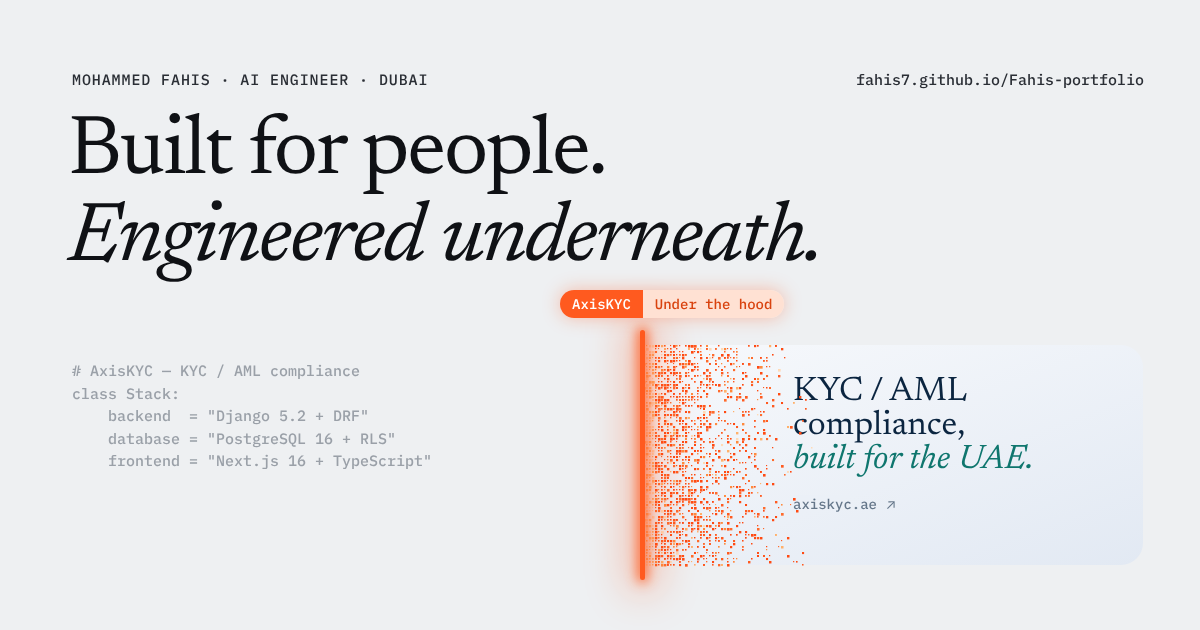
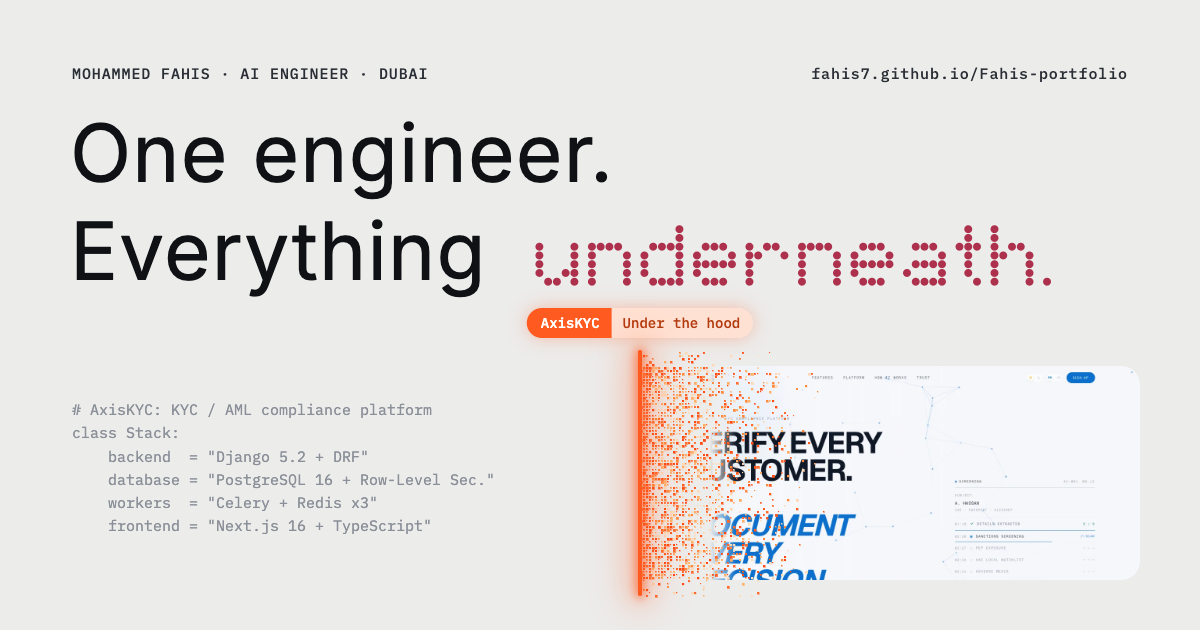
Hero headline: One engineer. Everything underneath.

diff --git a/index.html b/index.html
@@ -19,7 +19,7 @@
       })();
     </script>
 
-    <title>Mohammed Fahis | AI Engineer & Full Stack Developer in Dubai</title>
+    <title>Mohammed Fahis | One engineer. Everything underneath.</title>
     <meta name="description" content="Mohammed Fahis is a Dubai-based AI Engineer and Full Stack Developer. Builder of AxisKYC (KYC/AML compliance), PropAI OS and more: multi-tenant SaaS, RAG and vision-AI from blank screen to production." />
     <meta name="author" content="Mohammed Fahis" />
     <link rel="canonical" href="https://fahis7.github.io/Fahis-portfolio/" />
@@ -33,7 +33,7 @@
     <meta property="og:type" content="website" />
     <meta property="og:site_name" content="Mohammed Fahis" />
     <meta property="og:title" content="Mohammed Fahis | AI Engineer & Full Stack Developer" />
-    <meta property="og:description" content="Built for people. Engineered underneath. AxisKYC, PropAI OS, Seek & Sync and more: AI products shipped end-to-end." />
+    <meta property="og:description" content="AI and full-stack engineer in Dubai. One engineer, everything underneath: compliance, ops and AI platforms shipped end to end." />
     <meta property="og:url" content="https://fahis7.github.io/Fahis-portfolio/" />
     <meta property="og:image" content="https://fahis7.github.io/Fahis-portfolio/og-image.png" />
     <meta property="og:image:width" content="1200" />
@@ -41,7 +41,7 @@
     <meta property="og:image:alt" content="Mohammed Fahis | AI Engineer / Full Stack Developer, Dubai" />
     <meta name="twitter:card" content="summary_large_image" />
     <meta name="twitter:title" content="Mohammed Fahis | AI Engineer & Full Stack Developer" />
-    <meta name="twitter:description" content="Built for people. Engineered underneath. AI products shipped end-to-end." />
+    <meta name="twitter:description" content="AI and full-stack engineer in Dubai. One engineer, everything underneath: compliance, ops and AI platforms shipped end to end." />
     <meta name="twitter:image" content="https://fahis7.github.io/Fahis-portfolio/og-image.png" />
 
     <script type="application/ld+json">

diff --git a/src/main.jsx b/src/main.jsx
@@ -333,7 +333,7 @@ function Stage() {
             alt="Mohammed Fahis" />
           <div>
             <p className="eyebrow"><span className="eyebrow-name">Mohammed Fahis · </span>AI Engineer · Dubai</p>
-            <h1 className="hero-title t-head">Built for people.<br />Engineered <DotWord text="underneath." /></h1>
+            <h1 className="hero-title t-head" aria-label="One engineer. Everything underneath.">One engineer.<br />Everything <DotWord text="underneath." /></h1>
           </div>
         </div>
         <div className="hero-side">
@@ -500,7 +500,7 @@ function About() {
     <section className="section about" id="about">
       <div className="section-label rise"><span>02</span>About</div>
       <div className="about-grid">
-        <h2 className="big t-head rise" style={{ '--d': '.1s' }}>Build the system <DotWord text="underneath," /><br />ship the interface on top.</h2>
+        <h2 className="big t-head rise" style={{ '--d': '.1s' }}>Build the system underneath,<br />ship the <DotWord text="interface" /> on top.</h2>
         <div className="about-body">
           <div className="about-copy t-copy rise" style={{ '--d': '.2s' }}>
             <p>My work lives where product engineering meets applied AI: authentication, data architecture, model orchestration, deployment, and the last 10% that makes a product feel finished.</p>
